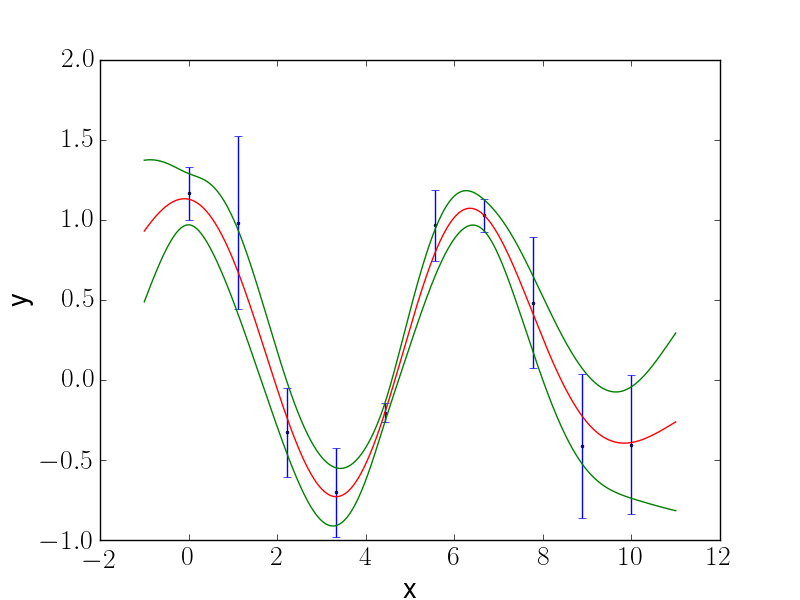
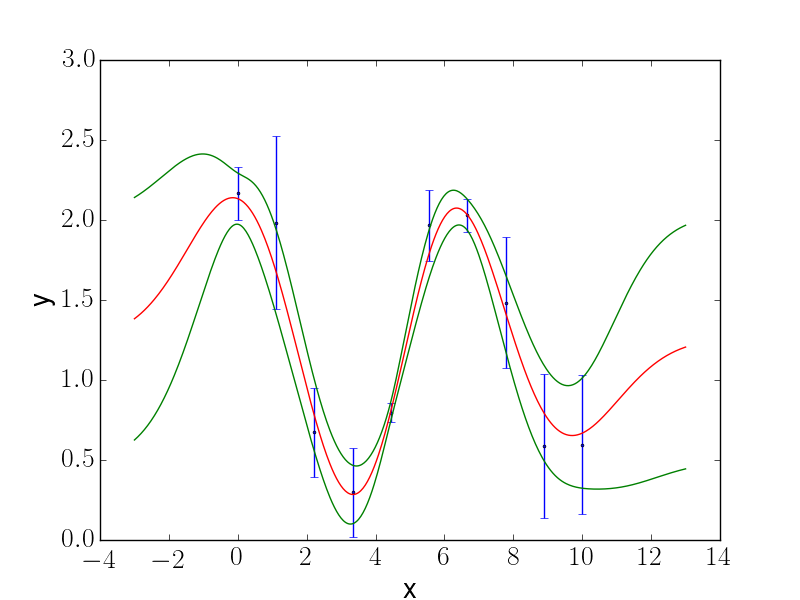
Changed the emulator to extrapolate to the average and updated the figure accordingly.

diff --git a/emulator.py b/emulator.py
@@ -23,7 +23,9 @@ class Emulator(object):
         self.kernel_exponent = kernel_exponent
         if len(xdata) != len(ydata):raise ValueError("xdata and ydata must be the same length.")
         self.xdata = xdata
-        self.ydata = ydata
+        self.ydata_true = ydata
+        self.ydata_mean = np.mean(ydata)
+        self.ydata = self.ydata_true - self.ydata_mean
         if len(yerr) != len(ydata):raise ValueError("ydata and yerr must be the same length.")
         self.yerr = yerr
         self.Kxx = None
@@ -173,7 +175,7 @@ class Emulator(object):
     def predict(self,xs):
         if not self.trained: raise Exception("Emulator is not yet trained")
         ystar,ystarvar = np.array([self.predict_one_point(xsi) for xsi in xs]).T
-        return ystar,ystarvar
+        return ystar+self.ydata_mean,ystarvar
 
 """
 Here is a unit test for the emulator.

diff --git a/examples/example.py b/examples/example.py
@@ -5,14 +5,14 @@ import numpy as np
 np.random.seed(85719)
 x = np.linspace(0,10,num=10)
 yerr = 0.05+0.5 * np.random.rand(len(x))
-y = np.cos(x) + yerr
+y = np.cos(x) + yerr + 1
 
 #Train
 emu = emulator.Emulator(name="example_emulator",xdata=x,ydata=y,yerr=np.fabs(yerr))
 emu.train()
 
 #Create some data to predict on
-xstar = np.linspace(min(x)-1,max(x)+1,500)
+xstar = np.linspace(min(x)-3,max(x)+3,500)
 ystar,ystarvar = emu.predict(xstar)
 ystarerr = np.sqrt(ystarvar)
 
